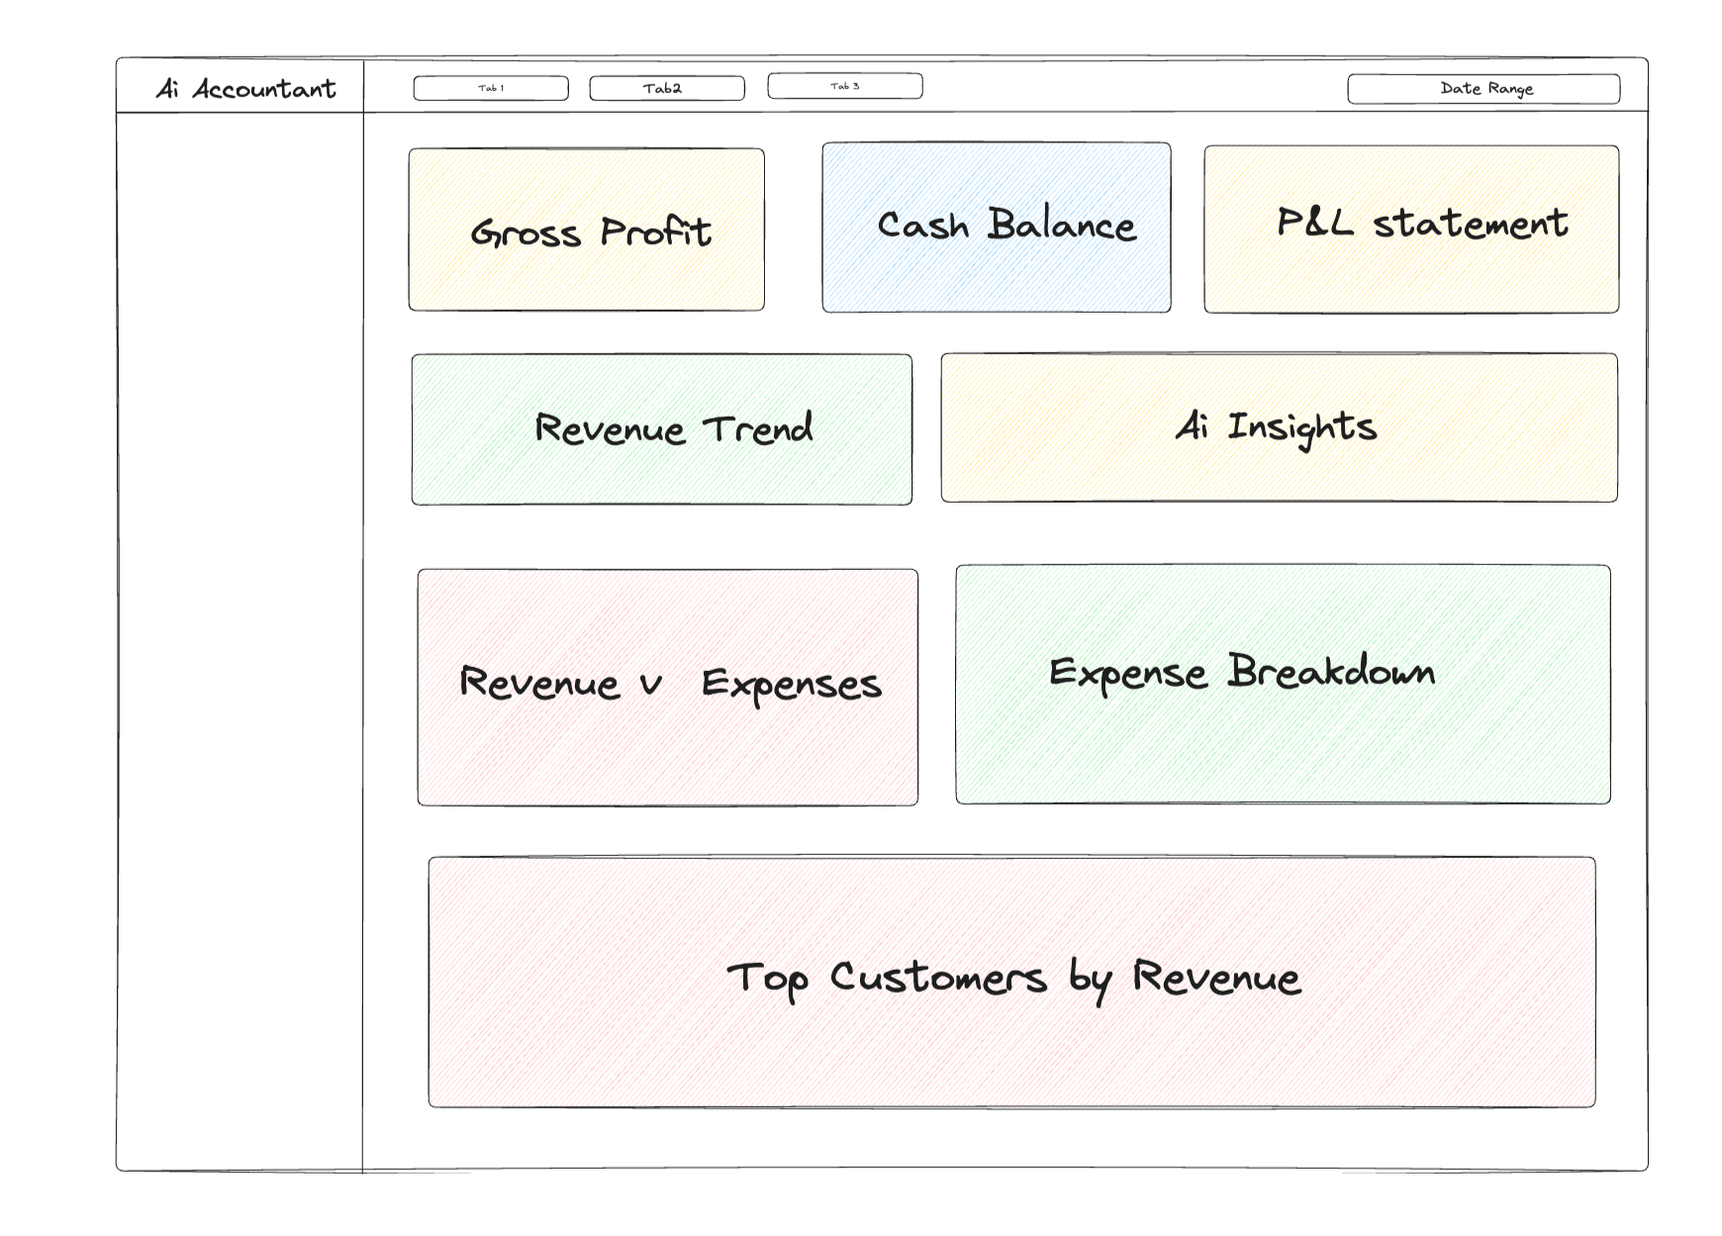
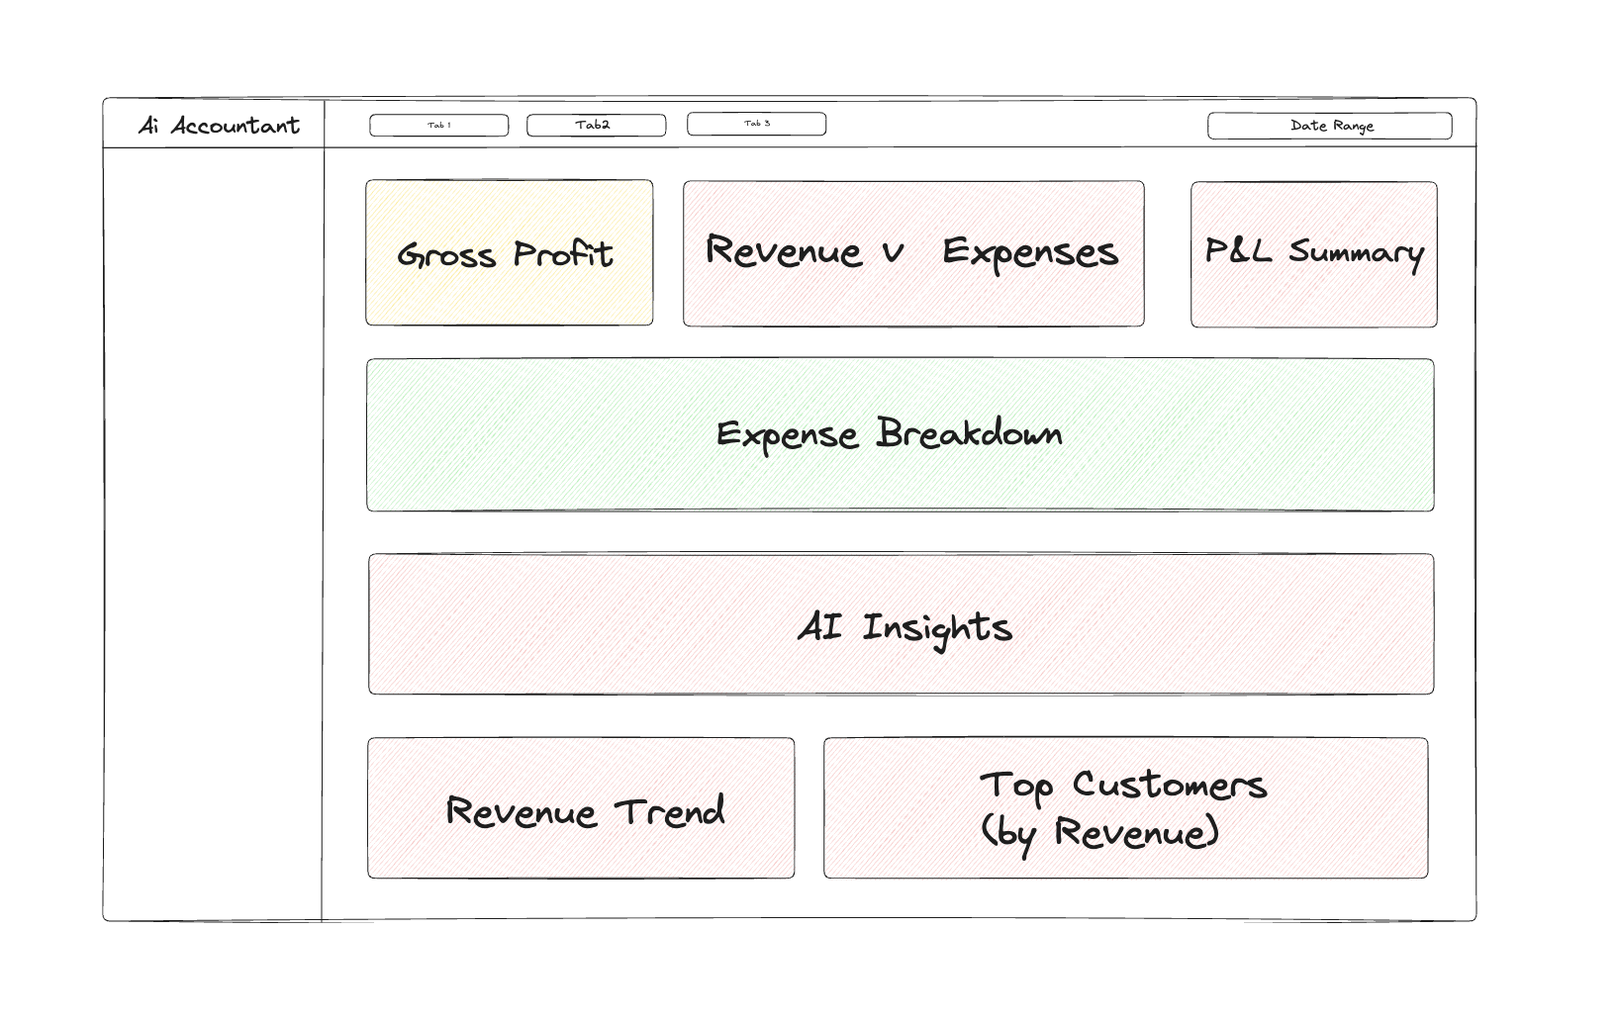
version 8

diff --git a/src/tabs/OverviewTab.tsx b/src/tabs/OverviewTab.tsx
@@ -38,7 +38,6 @@ const GRAIN_STATS: Record<Grain, { current: number; prev: number; label: string;
   Month: { current: 4500000, prev: 4200000, label: 'This month', changeLabel: 'vs last month' },
 };
 
-// Values in L (lakhs) for the composed chart
 const REV_VS_EXP_DATA = [
   { month: 'Jan', Revenue: 30,   Expense: 25,   'Net Surplus': 5   },
   { month: 'Feb', Revenue: 31.5, Expense: 26,   'Net Surplus': 5.5 },
@@ -68,145 +67,105 @@ export const OverviewTab = () => {
     <Box p="24px">
       <KPIGrid>
 
-        {/* ── Row 1: Gross Profit (3col) | Revenue vs Expense (9col) ── */}
+        {/* ── Row 1: Gross Profit (3) | Revenue vs Expense (6) | P&L Summary (3) ── */}
 
-        <WidgetCard id="w7-gross-profit" title="Gross Profit" colSpan={3} isZoneA>
-          <Box style={{ display: 'flex', flexDirection: 'column', height: '100%', justifyContent: 'space-between' }}>
+        <WidgetCard id="w7-gross-profit" title="Gross Profit" colSpan={3}>
+          <Box style={{ display: 'flex', flexDirection: 'column', justifyContent: 'space-between', height: '100%' }}>
             <Box>
-              <Group gap={8} align="baseline" mb={6}>
-                <Text ff="Albert Sans" fw={700} size="28px" c="var(--color-text-primary)" className="num">
+              <Group gap={6} align="baseline" mb={4}>
+                <Text ff="Albert Sans" fw={700} size="26px" c="var(--color-text-primary)" className="num">
                   {formatCurrency(1850000)}
                 </Text>
                 <Box style={{ backgroundColor: '#EFF6FF', padding: '1px 6px', borderRadius: 4 }}>
-                  <Text ff="Space Grotesk" fw={500} size="11px" c="#2563EB">41% gross margin</Text>
+                  <Text ff="Space Grotesk" fw={500} size="11px" c="#2563EB">41%</Text>
                 </Box>
               </Group>
               <TrendBadge value={7.6} label="vs last month" type="revenue" />
             </Box>
-            <Box style={{ borderTop: '1px solid var(--color-border)', paddingTop: 12, marginTop: 12 }}>
-              <Group justify="space-between" mb={6}>
-                <Text ff="Space Grotesk" size="13px" c="var(--color-text-secondary)">Revenue</Text>
-                <Text ff="Albert Sans" size="13px" c="var(--color-text-primary)" className="num">{formatCurrency(4500000)}</Text>
+            <Box style={{ borderTop: '1px solid var(--color-border)', paddingTop: 10, marginTop: 10 }}>
+              <Group justify="space-between" mb={4}>
+                <Text ff="Space Grotesk" size="12px" c="var(--color-text-muted)">Revenue</Text>
+                <Text ff="Albert Sans" size="12px" c="var(--color-text-primary)" className="num">{formatCurrency(4500000)}</Text>
               </Group>
               <Group justify="space-between">
-                <Text ff="Space Grotesk" size="13px" c="var(--color-text-secondary)">COGS</Text>
-                <Text ff="Albert Sans" size="13px" c="var(--color-text-primary)" className="num">{formatCurrency(2650000)}</Text>
+                <Text ff="Space Grotesk" size="12px" c="var(--color-text-muted)">COGS</Text>
+                <Text ff="Albert Sans" size="12px" c="var(--color-text-primary)" className="num">{formatCurrency(2650000)}</Text>
               </Group>
             </Box>
           </Box>
         </WidgetCard>
 
-        <WidgetCard id="w10-rev-vs-exp" title="Revenue vs Expense" colSpan={9}>
-          <Group justify="space-between" align="flex-end" mb={16}>
-            <Box>
-              <Text ff="Space Grotesk" size="11px" c="var(--color-text-ghost)" mb={2}>Net surplus · Jun</Text>
-              <Group gap={8} align="baseline">
-                <Text ff="Albert Sans" fw={700} size="24px" c="var(--color-text-primary)" className="num">
-                  {formatCurrency(1200000)}
-                </Text>
-                <Box style={{ display: 'inline-flex', padding: '2px 7px', borderRadius: 10, backgroundColor: 'var(--color-positive-bg)' }}>
-                  <Text ff="Space Grotesk" fw={600} size="12px" c="var(--color-positive)">↑ 26.7%</Text>
-                </Box>
-              </Group>
-            </Box>
+        <WidgetCard id="w10-rev-vs-exp" title="Revenue vs Expense" colSpan={6}>
+          <Group justify="space-between" align="center" mb={10}>
+            <Group gap={8} align="baseline">
+              <Text ff="Albert Sans" fw={700} size="20px" c="var(--color-text-primary)" className="num">
+                {formatCurrency(1200000)}
+              </Text>
+              <Text ff="Space Grotesk" size="11px" c="var(--color-text-ghost)">net surplus · Jun</Text>
+              <Box style={{ display: 'inline-flex', padding: '1px 6px', borderRadius: 10, backgroundColor: 'var(--color-positive-bg)' }}>
+                <Text ff="Space Grotesk" fw={600} size="11px" c="var(--color-positive)">↑ 26.7%</Text>
+              </Box>
+            </Group>
             <Text ff="Space Grotesk" size="11px" c="var(--color-text-ghost)">vs last month</Text>
           </Group>
-          <ResponsiveContainer width="100%" height={180}>
-            <ComposedChart data={REV_VS_EXP_DATA} margin={{ top: 4, right: 40, left: 0, bottom: 0 }}>
+          <ResponsiveContainer width="100%" height={150}>
+            <ComposedChart data={REV_VS_EXP_DATA} margin={{ top: 2, right: 36, left: 0, bottom: 0 }}>
               <CartesianGrid vertical={false} stroke="#F3F4F6" />
-              <XAxis
-                dataKey="month"
-                tick={{ fontSize: 11, fill: '#9CA3AF', fontFamily: 'Space Grotesk' }}
-                axisLine={false}
-                tickLine={false}
-              />
-              <YAxis
-                yAxisId="left"
-                tickFormatter={(v) => `₹${v}L`}
-                tick={{ fontSize: 11, fill: '#9CA3AF', fontFamily: 'Space Grotesk' }}
-                axisLine={false}
-                tickLine={false}
-                width={48}
-              />
-              <YAxis
-                yAxisId="right"
-                orientation="right"
-                tickFormatter={(v) => `₹${v}L`}
-                tick={{ fontSize: 11, fill: '#9CA3AF', fontFamily: 'Space Grotesk' }}
-                axisLine={false}
-                tickLine={false}
-                width={40}
-                domain={[0, 20]}
-              />
-              <RechartTooltip
-                formatter={(value, name) => [`₹${value}L`, name as string]}
-                contentStyle={{ fontFamily: 'Space Grotesk', fontSize: 12, border: '1px solid #E5E7EB', borderRadius: 8 }}
-              />
-              <Legend
-                wrapperStyle={{ fontFamily: 'Space Grotesk', fontSize: 12, paddingTop: 8 }}
-                iconType="square"
-              />
-              <Bar yAxisId="left" dataKey="Revenue" fill="#2563EB" radius={[3, 3, 0, 0]} maxBarSize={32} />
-              <Bar yAxisId="left" dataKey="Expense" fill="#CBD5E1" radius={[3, 3, 0, 0]} maxBarSize={32} />
-              <Line
-                yAxisId="right"
-                type="monotone"
-                dataKey="Net Surplus"
-                stroke="#2563EB"
-                strokeWidth={2}
-                dot={{ fill: '#2563EB', stroke: '#FFFFFF', strokeWidth: 2, r: 5 }}
-                activeDot={{ r: 6, stroke: '#EFF6FF', strokeWidth: 2 }}
-              />
+              <XAxis dataKey="month" tick={{ fontSize: 10, fill: '#9CA3AF', fontFamily: 'Space Grotesk' }} axisLine={false} tickLine={false} />
+              <YAxis yAxisId="left" tickFormatter={(v) => `₹${v}L`} tick={{ fontSize: 10, fill: '#9CA3AF', fontFamily: 'Space Grotesk' }} axisLine={false} tickLine={false} width={42} />
+              <YAxis yAxisId="right" orientation="right" tickFormatter={(v) => `₹${v}L`} tick={{ fontSize: 10, fill: '#9CA3AF', fontFamily: 'Space Grotesk' }} axisLine={false} tickLine={false} width={36} domain={[0, 20]} />
+              <RechartTooltip formatter={(value, name) => [`₹${value}L`, name as string]} contentStyle={{ fontFamily: 'Space Grotesk', fontSize: 12, border: '1px solid #E5E7EB', borderRadius: 8 }} />
+              <Legend wrapperStyle={{ fontFamily: 'Space Grotesk', fontSize: 11, paddingTop: 4 }} iconType="square" />
+              <Bar yAxisId="left" dataKey="Revenue" fill="#2563EB" radius={[3, 3, 0, 0]} maxBarSize={28} />
+              <Bar yAxisId="left" dataKey="Expense" fill="#CBD5E1" radius={[3, 3, 0, 0]} maxBarSize={28} />
+              <Line yAxisId="right" type="monotone" dataKey="Net Surplus" stroke="#2563EB" strokeWidth={2} dot={{ fill: '#2563EB', stroke: '#FFFFFF', strokeWidth: 2, r: 4 }} activeDot={{ r: 5 }} />
             </ComposedChart>
           </ResponsiveContainer>
         </WidgetCard>
 
-        {/* ── Row 2: P&L Statement (12col) ── */}
-
-        <WidgetCard id="w7-pnl-full" title="P&L Statement" colSpan={12} isZoneA>
-          <Box style={{ display: 'flex', flexDirection: 'column', gap: 12 }}>
+        <WidgetCard id="w7-pnl-full" title="P&L Summary" colSpan={3}>
+          <Box style={{ display: 'flex', flexDirection: 'column', gap: 8 }}>
             <Group justify="space-between">
-              <Text ff="Space Grotesk" size="13px" c="var(--color-text-secondary)">Revenue</Text>
-              <Text ff="Albert Sans" fw={400} size="13px" c="var(--color-text-primary)" className="num">{formatCurrency(4500000)}</Text>
+              <Text ff="Space Grotesk" size="12px" c="var(--color-text-muted)">Revenue</Text>
+              <Text ff="Albert Sans" size="12px" c="var(--color-text-primary)" className="num">{formatCurrency(4500000)}</Text>
             </Group>
             <Group justify="space-between">
-              <Text ff="Space Grotesk" size="13px" c="var(--color-text-secondary)">COGS</Text>
-              <Text ff="Albert Sans" fw={400} size="13px" c="var(--color-text-primary)" className="num">{formatCurrency(2650000)}</Text>
+              <Text ff="Space Grotesk" size="12px" c="var(--color-text-muted)">COGS</Text>
+              <Text ff="Albert Sans" size="12px" c="var(--color-text-primary)" className="num">{formatCurrency(2650000)}</Text>
             </Group>
-            <Group justify="space-between" pt={8} style={{ borderTop: '1px solid var(--color-border)' }}>
-              <Group gap={6}>
-                <Text ff="Space Grotesk" fw={600} size="13px" c="var(--color-text-primary)">Gross Profit</Text>
-                <Box style={{ backgroundColor: 'var(--color-positive-bg)', padding: '2px 6px', borderRadius: 'var(--radius-badge)' }}>
+            <Group justify="space-between" pt={6} style={{ borderTop: '1px solid var(--color-border)' }}>
+              <Group gap={4}>
+                <Text ff="Space Grotesk" fw={600} size="12px" c="var(--color-text-primary)">Gross Profit</Text>
+                <Box style={{ backgroundColor: 'var(--color-positive-bg)', padding: '1px 5px', borderRadius: 4 }}>
                   <Text ff="Space Grotesk" fw={600} size="10px" c="var(--color-positive)">41%</Text>
                 </Box>
               </Group>
-              <Text ff="Albert Sans" fw={600} size="14px" c="var(--color-text-primary)" className="num">{formatCurrency(1850000)}</Text>
+              <Text ff="Albert Sans" fw={600} size="12px" c="var(--color-text-primary)" className="num">{formatCurrency(1850000)}</Text>
             </Group>
             <Group justify="space-between">
-              <Text ff="Space Grotesk" size="13px" c="var(--color-text-secondary)">Operating Expense</Text>
-              <Text ff="Albert Sans" fw={400} size="13px" c="var(--color-text-primary)" className="num">{formatCurrency(650000)}</Text>
+              <Text ff="Space Grotesk" size="12px" c="var(--color-text-muted)">Opex</Text>
+              <Text ff="Albert Sans" size="12px" c="var(--color-text-primary)" className="num">{formatCurrency(650000)}</Text>
             </Group>
-            <Box style={{ flex: 1, minHeight: 16 }} />
-            <Group justify="space-between" pt={12} style={{ borderTop: '1px solid var(--color-border)' }}>
-              <Tooltip label="Revenue minus cost of goods and operating expenses, before tax.">
-                <Text ff="Space Grotesk" fw={700} size="14px" c="var(--color-text-primary)" style={{ cursor: 'help', borderBottom: '1px dashed var(--color-border-strong)' }}>
-                  Operating Profit
+            <Group justify="space-between" pt={6} style={{ borderTop: '1px solid var(--color-border)' }}>
+              <Tooltip label="Revenue minus COGS and operating expenses, before tax.">
+                <Text ff="Space Grotesk" fw={700} size="12px" c="var(--color-text-primary)" style={{ cursor: 'help', borderBottom: '1px dashed var(--color-border)' }}>
+                  Op. Profit
                 </Text>
               </Tooltip>
-              <Text ff="Albert Sans" fw={700} size="16px" c="var(--color-text-primary)" className="num">{formatCurrency(1200000)}</Text>
+              <Text ff="Albert Sans" fw={700} size="14px" c="var(--color-positive)" className="num">{formatCurrency(1200000)}</Text>
             </Group>
           </Box>
         </WidgetCard>
 
-        {/* ── Row 3: Expense Breakdown (12col) ── */}
+        {/* ── Row 2: Expense Breakdown (12col) ── */}
 
         <WidgetCard id="w11-exp-breakdown" title="Expense Breakdown" colSpan={12}>
-          <Group justify="space-between" mb={20} align="baseline">
-            <Group gap={8} align="baseline">
-              <Text ff="Albert Sans" fw={700} size="22px" c="var(--color-text-primary)" className="num">
+          <Group justify="space-between" mb={12} align="center">
+            <Group gap={6} align="baseline">
+              <Text ff="Albert Sans" fw={700} size="18px" c="var(--color-text-primary)" className="num">
                 {formatCurrency(EXPENSE_TOTAL)}
               </Text>
-              <Text ff="Space Grotesk" size="12px" c="var(--color-text-muted)">total this month</Text>
+              <Text ff="Space Grotesk" size="11px" c="var(--color-text-muted)">total this month</Text>
             </Group>
             <TrendBadge value={3.8} label="vs last month" />
           </Group>
@@ -215,17 +174,17 @@ export const OverviewTab = () => {
               const pct = Math.round((cat.amount / EXPENSE_TOTAL) * 100);
               return (
                 <Box key={cat.label}>
-                  <Group justify="space-between" mb={6}>
-                    <Group gap={6} align="center">
-                      <Box style={{ width: 8, height: 8, borderRadius: '50%', backgroundColor: cat.color, flexShrink: 0 }} />
-                      <Text ff="Space Grotesk" size="12px" fw={500} c="var(--color-text-secondary)">{cat.label}</Text>
+                  <Group justify="space-between" mb={4}>
+                    <Group gap={5} align="center">
+                      <Box style={{ width: 7, height: 7, borderRadius: '50%', backgroundColor: cat.color, flexShrink: 0 }} />
+                      <Text ff="Space Grotesk" size="11px" fw={500} c="var(--color-text-secondary)">{cat.label}</Text>
                     </Group>
-                    <Text ff="Space Grotesk" size="11px" c="var(--color-text-ghost)">{pct}%</Text>
+                    <Text ff="Space Grotesk" size="10px" c="var(--color-text-ghost)">{pct}%</Text>
                   </Group>
-                  <Text ff="Albert Sans" fw={700} size="18px" c="var(--color-text-primary)" className="num" mb={6}>
+                  <Text ff="Albert Sans" fw={700} size="15px" c="var(--color-text-primary)" className="num" mb={4}>
                     {formatCurrency(cat.amount)}
                   </Text>
-                  <Box style={{ height: 5, backgroundColor: 'var(--color-bg-hover)', borderRadius: 3, overflow: 'hidden' }}>
+                  <Box style={{ height: 4, backgroundColor: 'var(--color-bg-hover)', borderRadius: 3, overflow: 'hidden' }}>
                     <Box style={{ height: '100%', width: `${pct}%`, backgroundColor: cat.color, borderRadius: 3, opacity: 0.85 }} />
                   </Box>
                 </Box>
@@ -234,79 +193,72 @@ export const OverviewTab = () => {
           </Box>
         </WidgetCard>
 
-        {/* ── Row 4: AI Insights (12col) ── */}
+        {/* ── Row 3: AI Insights (12col) — collapsed by default, expands in place ── */}
 
         <WidgetCard id="w-ai-insights" title="" colSpan={12} disablePanel>
           <AIInsightsAccordion />
         </WidgetCard>
 
-        {/* ── Row 5: Revenue Trend (12col) ── */}
+        {/* ── Row 4: Revenue Trend (5col) | Top Customers (7col) ── */}
 
         <WidgetCard
           id="w8-rev-full"
           title="Revenue Trend"
-          colSpan={12}
+          colSpan={5}
           titleExtra={<GrainToggle value={revGrain} onChange={setRevGrain} />}
         >
-          <Group justify="space-between" align="flex-end" mb={16}>
-            <Box>
-              <Text ff="Space Grotesk" size="11px" c="var(--color-text-ghost)" mb={2}>{stats.label}</Text>
-              <Group gap={8} align="baseline">
-                <Text ff="Albert Sans" fw={700} size="24px" c="var(--color-text-primary)" className="num">
-                  {formatCurrency(stats.current)}
+          <Group justify="space-between" align="center" mb={10}>
+            <Group gap={8} align="baseline">
+              <Text ff="Albert Sans" fw={700} size="20px" c="var(--color-text-primary)" className="num">
+                {formatCurrency(stats.current)}
+              </Text>
+              <Box style={{ display: 'inline-flex', padding: '1px 6px', borderRadius: 10, backgroundColor: Number(pctChange) >= 0 ? 'var(--color-positive-bg)' : 'var(--color-critical-bg)' }}>
+                <Text ff="Space Grotesk" fw={600} size="11px" c={Number(pctChange) >= 0 ? 'var(--color-positive)' : 'var(--color-critical)'}>
+                  {Number(pctChange) >= 0 ? '↑' : '↓'} {Math.abs(Number(pctChange))}%
                 </Text>
-                <Box style={{ display: 'inline-flex', padding: '2px 7px', borderRadius: 10, backgroundColor: Number(pctChange) >= 0 ? 'var(--color-positive-bg)' : 'var(--color-critical-bg)' }}>
-                  <Text ff="Space Grotesk" fw={600} size="12px" c={Number(pctChange) >= 0 ? 'var(--color-positive)' : 'var(--color-critical)'}>
-                    {Number(pctChange) >= 0 ? '↑' : '↓'} {Math.abs(Number(pctChange))}%
-                  </Text>
-                </Box>
-              </Group>
-            </Box>
+              </Box>
+            </Group>
             <Text ff="Space Grotesk" size="11px" c="var(--color-text-ghost)">{stats.changeLabel}</Text>
           </Group>
           <AreaChart
-            h={160}
+            h={130}
             data={REVENUE_DATA[revGrain]}
             dataKey="date"
             series={[{ name: 'revenue', color: '#2563EB', label: 'Revenue' }]}
             curveType="monotone"
             withDots
             withGradient
-            fillOpacity={0.15}
+            fillOpacity={0.12}
             gridAxis="y"
             tickLine="none"
-            strokeWidth={2.5}
+            strokeWidth={2}
             dotProps={{ r: 3, fill: '#2563EB', strokeWidth: 0 }}
-            activeDotProps={{ r: 5, fill: '#2563EB', stroke: '#EFF6FF', strokeWidth: 2 }}
+            activeDotProps={{ r: 4, fill: '#2563EB', stroke: '#EFF6FF', strokeWidth: 2 }}
             valueFormatter={(val) => formatCurrency(val as number)}
-            styles={{
-              axis: { fontFamily: 'Space Grotesk', fontSize: 11, fill: 'var(--color-text-ghost)' },
-            }}
+            styles={{ axis: { fontFamily: 'Space Grotesk', fontSize: 10, fill: 'var(--color-text-ghost)' } }}
           />
         </WidgetCard>
 
-        {/* ── Row 6: Top Customers (12col) ── */}
-
-        <WidgetCard id="w9-top-customers" title="Top Customers by Revenue" colSpan={12}>
-          <Box style={{ display: 'grid', gridTemplateColumns: 'repeat(4, 1fr)', gap: 24 }}>
+        <WidgetCard id="w9-top-customers" title="Top Customers by Revenue" colSpan={7}>
+          <Box style={{ display: 'grid', gridTemplateColumns: 'repeat(4, 1fr)', gap: 16 }}>
             {[
               { name: 'Acme Corp',    amount: 1200000, percent: 65, share: '26.7%', trend: '+8.2%', up: true  },
               { name: 'Globex Inc',   amount: 850000,  percent: 48, share: '18.9%', trend: '+3.1%', up: true  },
               { name: 'Soylent Corp', amount: 420000,  percent: 28, share: '9.3%',  trend: '−2.4%', up: false },
               { name: 'Initech',      amount: 180000,  percent: 12, share: '4.0%',  trend: '+0.9%', up: true  },
             ].map((c) => (
-              <Box key={c.name} style={{ display: 'flex', flexDirection: 'column', gap: 8 }}>
+              <Box key={c.name} style={{ display: 'flex', flexDirection: 'column', gap: 6 }}>
                 <Group justify="space-between" align="flex-start">
-                  <Text ff="Space Grotesk" fw={500} size="13px" c="var(--color-text-secondary)">{c.name}</Text>
-                  <Box style={{ display: 'inline-flex', padding: '1px 6px', borderRadius: 4, backgroundColor: c.up ? 'var(--color-positive-bg)' : 'var(--color-critical-bg)' }}>
-                    <Text ff="Space Grotesk" size="11px" fw={500} c={c.up ? 'var(--color-positive)' : 'var(--color-critical)'}>{c.trend}</Text>
+                  <Text ff="Space Grotesk" fw={500} size="12px" c="var(--color-text-secondary)">{c.name}</Text>
+                  <Box style={{ display: 'inline-flex', padding: '1px 5px', borderRadius: 4, backgroundColor: c.up ? 'var(--color-positive-bg)' : 'var(--color-critical-bg)' }}>
+                    <Text ff="Space Grotesk" size="10px" fw={500} c={c.up ? 'var(--color-positive)' : 'var(--color-critical)'}>{c.trend}</Text>
                   </Box>
                 </Group>
                 <Group justify="space-between" align="baseline">
-                  <Text ff="Albert Sans" fw={700} size="18px" c="var(--color-text-primary)" className="num">{formatCurrency(c.amount)}</Text>
-                  <Text ff="Space Grotesk" size="12px" c="var(--color-text-ghost)">{c.share}</Text>
+                  <Text ff="Albert Sans" fw={700} size="15px" c="var(--color-text-primary)" className="num">{formatCurrency(c.amount)}</Text>
+                  <Text ff="Space Grotesk" size="11px" c="var(--color-text-ghost)">{c.share}</Text>
                 </Group>
-                <Box style={{ height: 6, backgroundColor: 'var(--color-bg-hover)', borderRadius: 3, overflow: 'hidden' }}>
+                <Box style={{ height: 5, backgroundColor: 'var(--color-bg-hover)', borderRadius: 3, overflow: 'hidden' }}>
                   <Box style={{ height: '100%', width: `${c.percent}%`, background: 'linear-gradient(90deg, #2563EB, #60A5FA)', borderRadius: 3 }} />
                 </Box>
               </Box>
